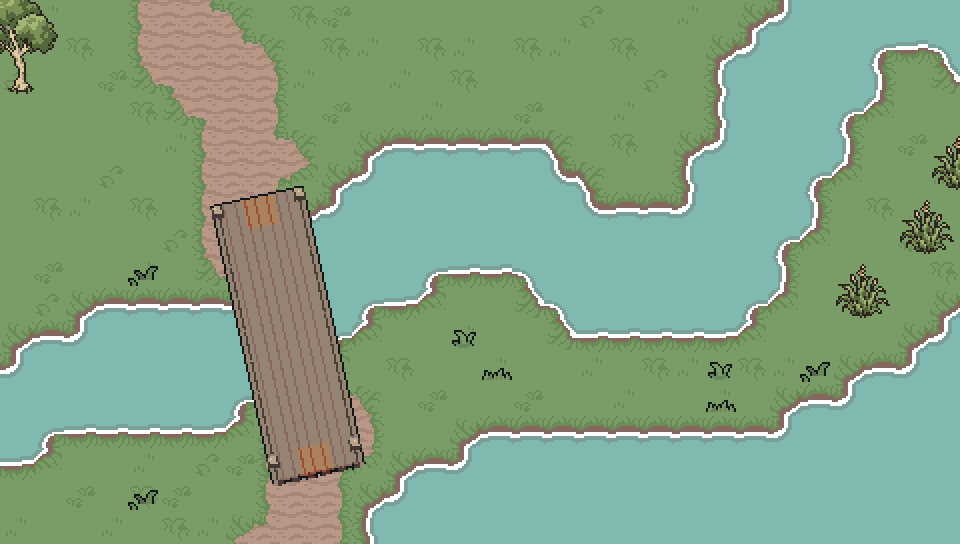
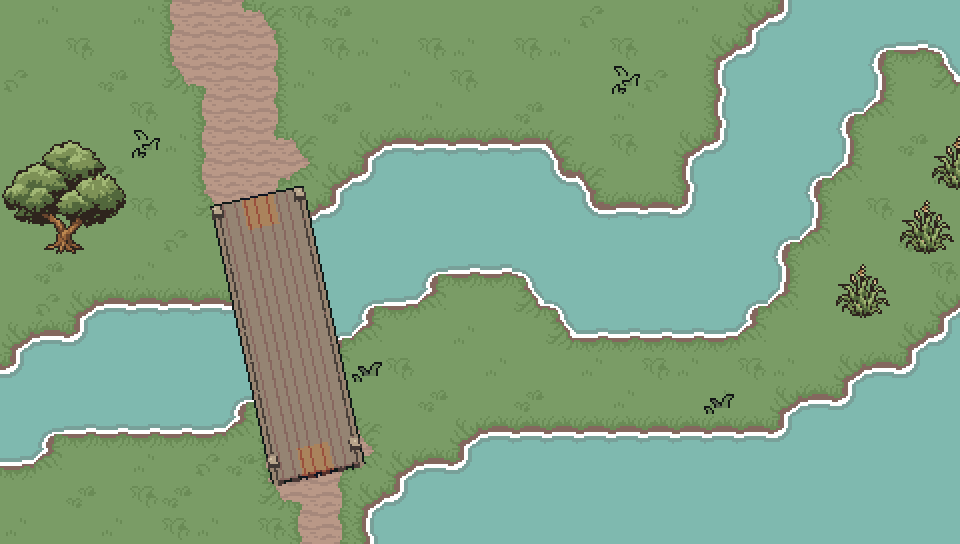
M1②: 나루 다리(2번) 진입로 다듬기, 다리 옆 길 돌기·작은 길 조각 제거
Claude-Session: https://claude.ai/code/session_01LeGdCGGAkPbpRa1d2kF6Yd

diff --git a/Tools/WorldLayout/m1_tiles_preview.py b/Tools/WorldLayout/m1_tiles_preview.py
@@ -166,6 +166,8 @@ TREES_HILL=['shrub:2:2','shrub:2:2','small_rock:2:2','forest_round:3:4','light_t
 TREES_LONE=['broadleaf:4:4','willow:4:4','light_tree:3:4','golden_tree:3:4','shrub:2:2','forest_round:3:4']
 REEDS='tall_grass:2:2';LOTUS='lotus:2:1';SHEAF='harvest:3:2'
 
+# 다리별 진입로 조정(세계 좌표 중심 → 걷어 낼 반지름, 이을 길 최대 거리, 곧게 나오는 길이). 은샘 지시로 나루 다리(2번)만.
+APPROACH={(252,42,-1):(11,22,9),(252,42,1):(7,16,5)}   # 끝: +1 = 다리 방향 앞쪽, -1 = 뒤쪽
 P=6   # 숲 합성 블록 크기(칸). 이 블록이 반복되는 '숲 타일'
 FOREST_BLOCK=['forest_round:3:4','forest_bent:3:4','broadleaf:4:4','round_west:4:3','round_east:4:3','forest_wide:4:3','light_tree:3:4']
 MOUNT_BLOCK=['pine_west:4:3','pine_east:4:3','pine_west:4:3','pine_east:4:3','forest_bent:3:4']
@@ -340,20 +342,26 @@ def main():
             dd=np.hypot(yy_-ey,xx_-ex)
             # 바깥 길: 다리 앞쪽(다리 방향과 같은 쪽)에서 5~14칸
             ahead=((yy_-ey)*sg*uy+(xx_-ex)*sg*ux)>0
-            cand=np.argwhere(road&(dd>=5)&(dd<=14)&ahead&~water)
+            R0,R1,A=APPROACH.get((int(round(cx+v.X0)),int(round(cy+v.Y0)),sg),(5,14,3))
+            cand=np.argwhere(road&(dd>=R0)&(dd<=R1)&ahead&~water)
             if not len(cand):continue
             # 다리 축에 가까우면서 가까운 길
             perp_=np.abs((cand[:,0]-ey)*ux-(cand[:,1]-ex)*uy)
             sc=np.hypot(cand[:,0]-ey,cand[:,1]-ex)+1.5*perp_
             ty,tx=cand[int(np.argmin(sc))]
-            road[(dd<5)&~water]=False
-            a_=(ey+sg*uy*3,ex+sg*ux*3)
+            road[(dd<R0)&ahead&~water]=False   # 이 끝 앞쪽만 걷어 냄(반대쪽 끝 진입로는 그대로)
+            road[(dd<3)&~ahead&~water]=False   # 다리 끝 옆으로 남은 길 돌기도 걷어 냄
+            a_=(ey+sg*uy*A,ex+sg*ux*A)
             stroke((ey,ex),a_);stroke(a_,(ty,tx))
         for k in np.arange(-half,half+.01,.5):
-            for wv in(-1,0,1):
+            for wv in(0,):   # 다리 밑은 가운데 줄만(기울어진 다리 옆으로 길이 삐져나오지 않게)
                 q=(int(round(cy+uy*k-ux*wv)),int(round(cx+ux*k+uy*wv)))
                 if inside(*q) and own[q] and not water[q]:road[q]=True
     road=fill_diagonals(tileready(road,own&~water),own&~water)
+    # 진입로를 고치며 떨어져 나온 작은 길 조각(12칸 미만) 제거
+    lab,n_=ndimage.label(road,structure=np.ones((3,3)))
+    for i_,sl in enumerate(ndimage.find_objects(lab),1):
+        if (lab[sl]==i_).sum()<12:road[sl][lab[sl]==i_]=False
     land=own&~water
     rep=dict(waterAdded=int((water&~water0).sum()),roadAdded=int((road&~road0).sum()),bridgeCells=int(bridge.sum()))
     img=Image.new('RGBA',(W*T,H*T),(28,34,40,255))
